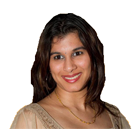
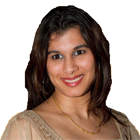
changes image size

diff --git a/index.html b/index.html
@@ -44,7 +44,7 @@
 					<div class="row row-bottom-padded-sm">
 						<div class="col-md-12">
 							<figure>
-								<img src="images/profile_img.png" alt="Free HTML5 Wesbite Template by FreeHTML5.co">
+								<img class="prof-img"  src="images/profile_img.png">
 							</figure>
 							<h1>Natacha Govan</h1>
 							<p>
@@ -302,10 +302,76 @@
 			<div class="fh5co-tab-content" data-content="4">
 				<div class="fh5co-content-inner">
 					<div class="row">
-						<div class="col-md-12">
+						<div class="col-md-6">
 							<p>Programming Languages.</p>
+							<div id="myProgress">
+							  <div id="myBar1"> JAVA </div>
+							</div>
+							<br>
+							<div id="myProgress">
+							  <div id="myBar2"> JAVA </div>
+							</div>
+							<br>
+							<div id="myProgress">
+							  <div id="myBar3"> JAVA </div>
+							</div>
+							<br>
+							<div id="myProgress">
+							  <div id="myBar4"> JAVA </div>
+							</div>
+							<br>
+							<div id="myProgress">
+							  <div id="myBar5"> JAVA </div>
+							</div>
+							<br>
+							<div id="myProgress">
+							  <div id="myBar6"> JAVA </div>
+							</div>
+							<br>
+							<div id="myProgress">
+							  <div id="myBar7"> JAVA </div>
+							</div>
+							<br>
+							<div id="myProgress">
+							  <div id="myBar8"> JAVA </div>
+							</div>
+						</div>
+						<div class="col-md-6">
+							<p>Programming Languages.</p>
+							<div id="myProgress">
+							  <div id="myBar9"> JAVA </div>
+							</div>
+							<br>
+							<div id="myProgress">
+							  <div id="myBar2"> JAVA </div>
+							</div>
+							<br>
+							<div id="myProgress">
+							  <div id="myBar3"> JAVA </div>
+							</div>
+							<br>
+							<div id="myProgress">
+							  <div id="myBar4"> JAVA </div>
+							</div>
+							<br>
+							<div id="myProgress">
+							  <div id="myBar5"> JAVA </div>
+							</div>
+							<br>
+							<div id="myProgress">
+							  <div id="myBar6"> JAVA </div>
+							</div>
+							<br>
+							<div id="myProgress">
+							  <div id="myBar7"> JAVA </div>
+							</div>
+							<br>
+							<div id="myProgress">
+							  <div id="myBar8"> JAVA </div>
+							</div>
 						</div>
 
+						
 
 
 					</div>

diff --git a/js/main.js b/js/main.js
@@ -37,17 +37,33 @@
 		}, 200);
 	};
 
-	var pieChart = function() {
-		$('.chart').easyPieChart({
-			scaleColor: false,
-			lineWidth: 10,
-			lineCap: 'butt',
-			barColor: 'orange',
-			trackColor:	"#000000",
-			size: 100,
-			animate: 1000
-		});
-	};
+	// var pieChart = function() {
+	// 	$('.chart').easyPieChart({
+	// 		scaleColor: false,
+	// 		lineWidth: 10,
+	// 		lineCap: 'butt',
+	// 		barColor: 'orange',
+	// 		trackColor:	"#000000",
+	// 		size: 100,
+	// 		animate: 1000
+	// 	});
+	// };
+	var num = 1;
+
+	var move = function(id) {
+		console.log(id)
+	  var elem = document.getElementById(id);
+	  var width = 1;
+	  var id = setInterval(frame, 10);
+	  function frame() {
+	    if (width >= 100) {
+	      clearInterval(id);
+	    } else {
+	      width++;
+	      elem.style.width = width + '%';
+	    }
+	  }
+	}
 
 	var tabContainer = function() {
 		getHeight();
@@ -76,9 +92,34 @@
 			}, 500);
 
 			if ( pie === 'yes' ) {
+
 				setTimeout(function(){
-					pieChart();
+						move('myBar1');
+				}, 200);
+				setTimeout(function(){
+						move('myBar2');
+				}, 300);
+				setTimeout(function(){
+						move('myBar3');
+				}, 400);
+				setTimeout(function(){
+						move('myBar4');
+				}, 500);
+				setTimeout(function(){
+						move('myBar5');
+				}, 600);
+				setTimeout(function(){
+						move('myBar6');
+				}, 700);
+				setTimeout(function(){
+						move('myBar7');
 				}, 800);
+				setTimeout(function(){
+						move('myBar8');
+				}, 900);
+				setTimeout(function(){
+						move('myBar9');
+				}, 200);
 			}
 			
 		})
@@ -88,6 +129,8 @@
 	$(function(){
 		tabContainer();
 		tabClickTrigger();
+
+		
 
 	});
 

diff --git a/css/style.css b/css/style.css
@@ -57,7 +57,9 @@ h1, h2, h3, h4, h5, h6 {
   font-weight: 400;
   margin: 0 0 30px 0;
 }
-
+h1 {
+  color: orange;
+}
 ::-webkit-selection {
   color: #fff;
   background: orange;
@@ -242,6 +244,9 @@ figure {
   margin-bottom: 1.5em;
 }
 
+.prof-img {
+  height: 200px;
+}
 .fh5co-counter .fh5co-number {
   font-size: 100px;
   color: orange;
@@ -452,7 +457,24 @@ figure {
 }
 
 
+#myProgress {
+  position: relative;
+  width: 70%;
+  height: 30px;
 
+  background-color: #262626;
+  color: #262626;
+}
+
+#myBar1, #myBar2, #myBar3, #myBar4, #myBar5, #myBar6, #myBar7, #myBar8, #myBar9 {
+  position: absolute;
+  width: 100%;
+  height: 100%;
+  background-color: orange;
+  text-align: center;
+  /*color: rgba(0, 0, 0, 0.85);*/
+
+}
 
 
 
